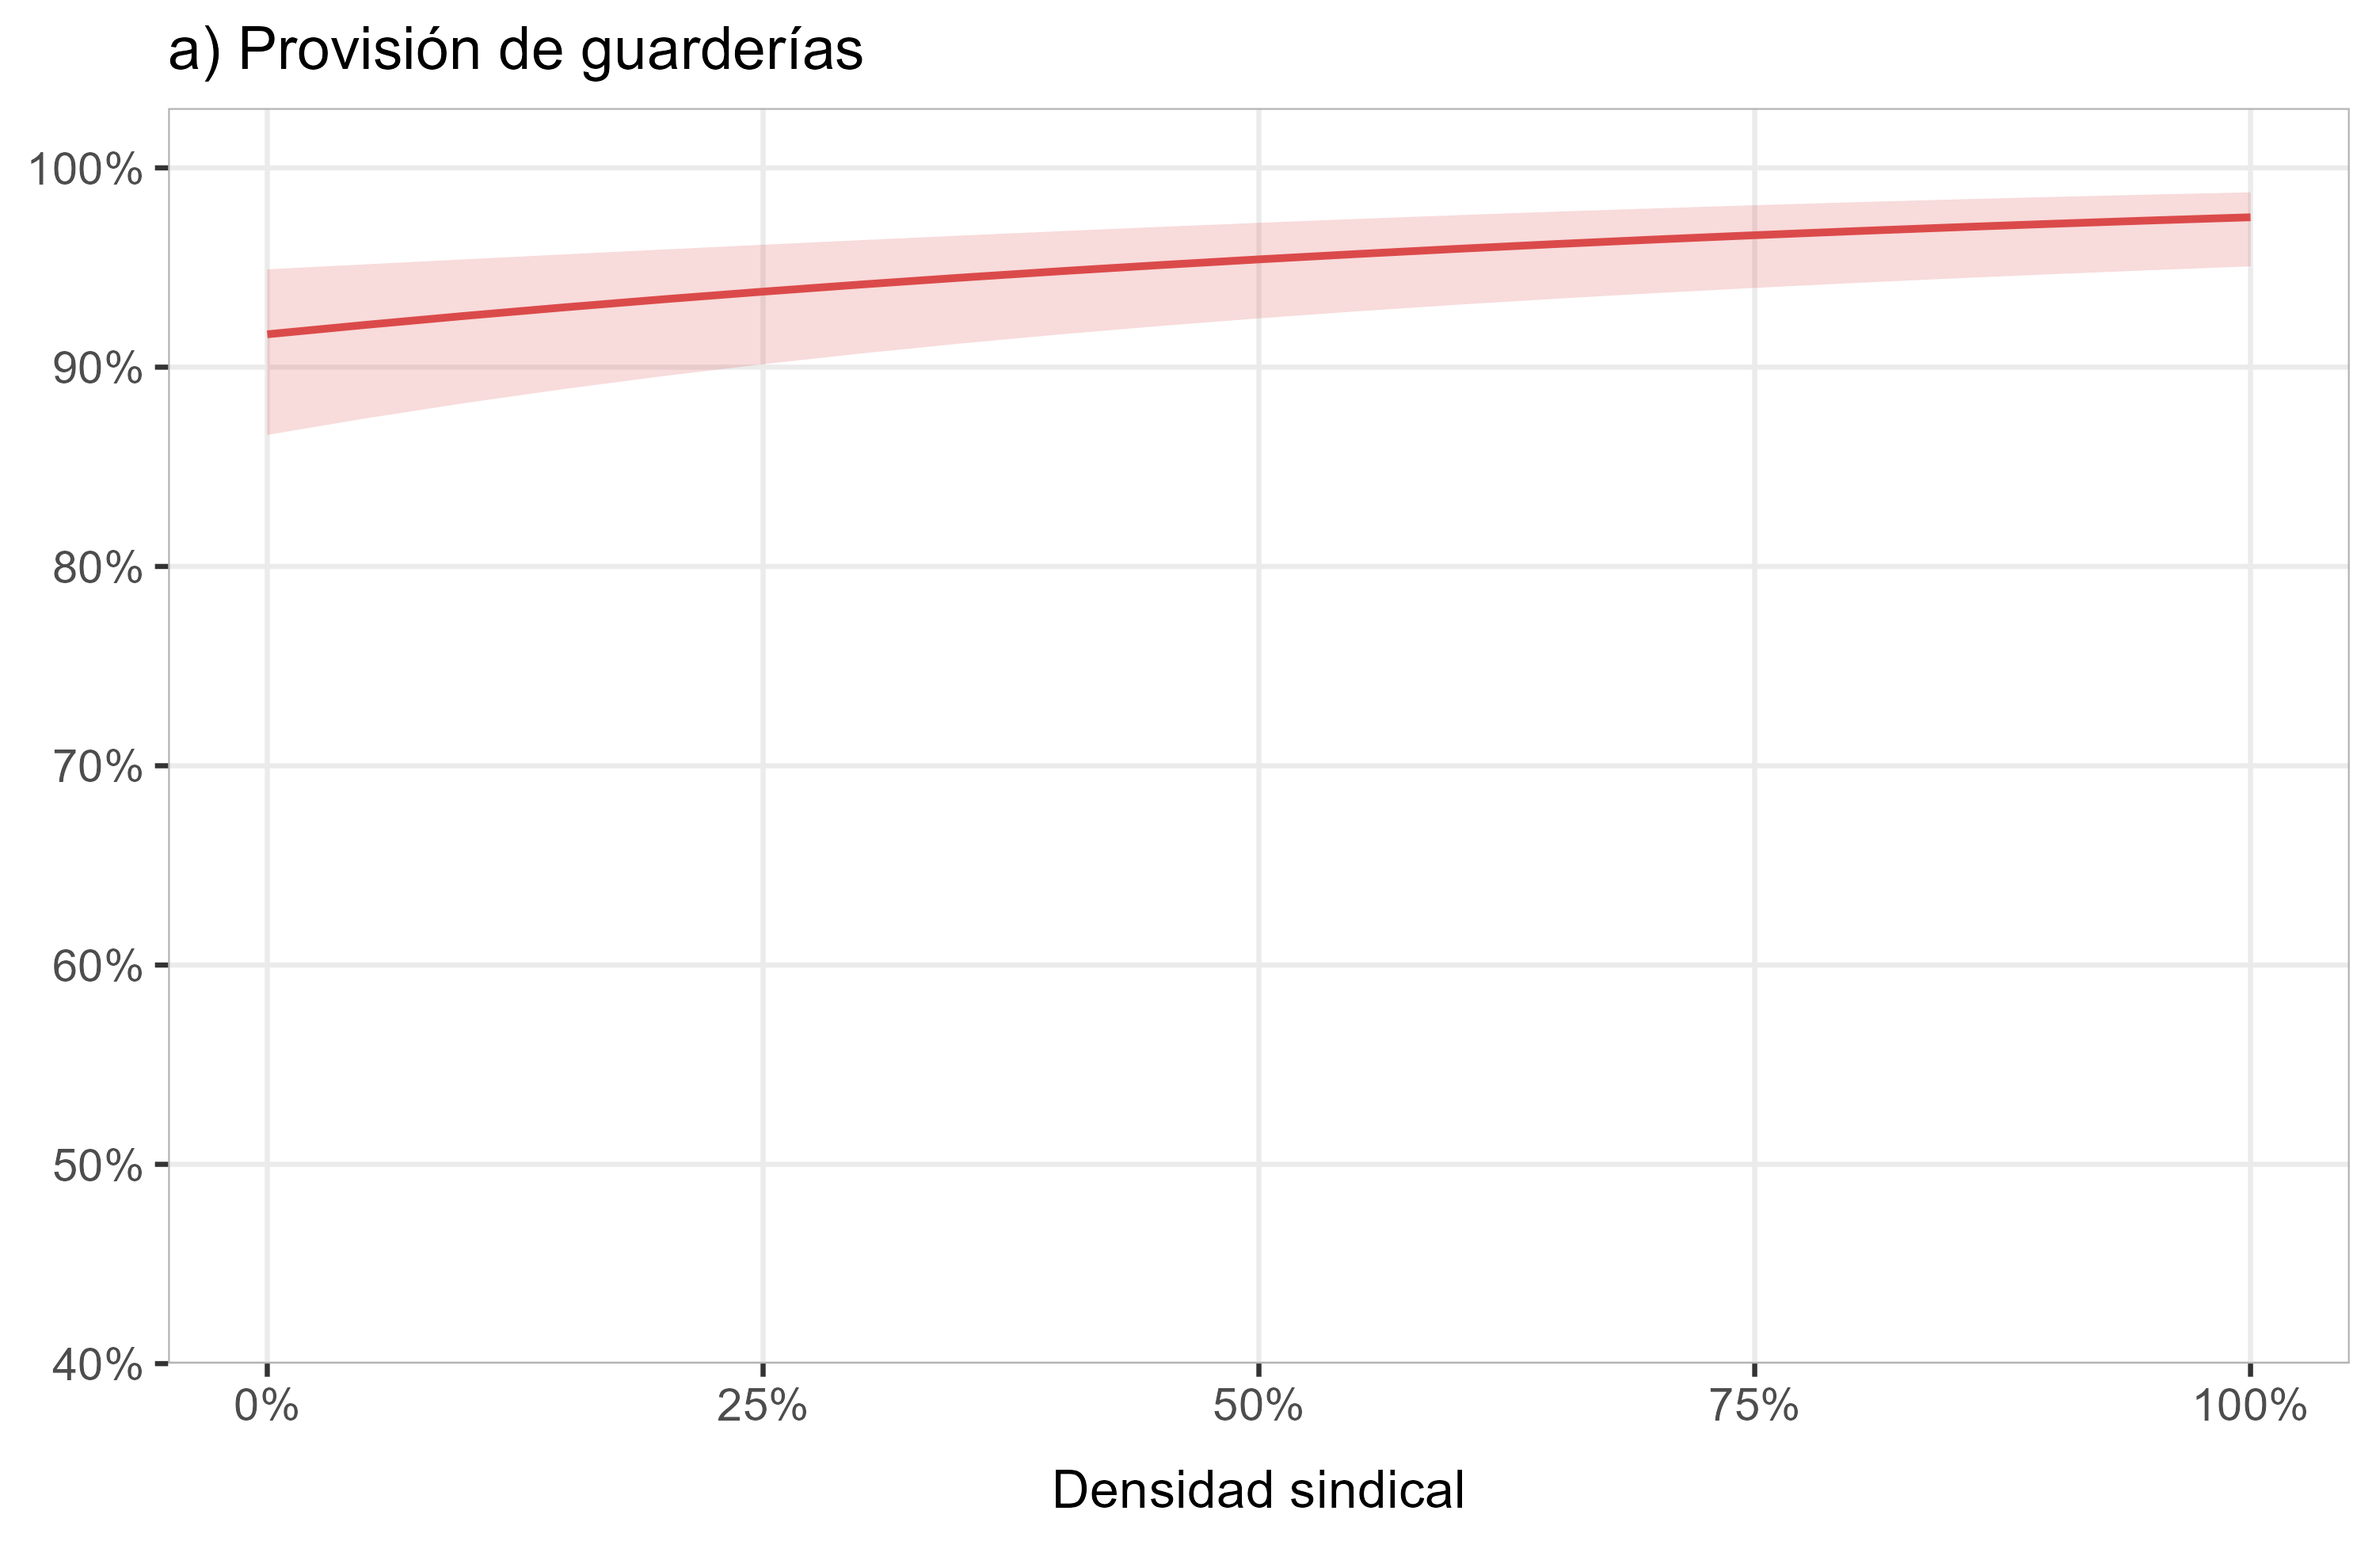
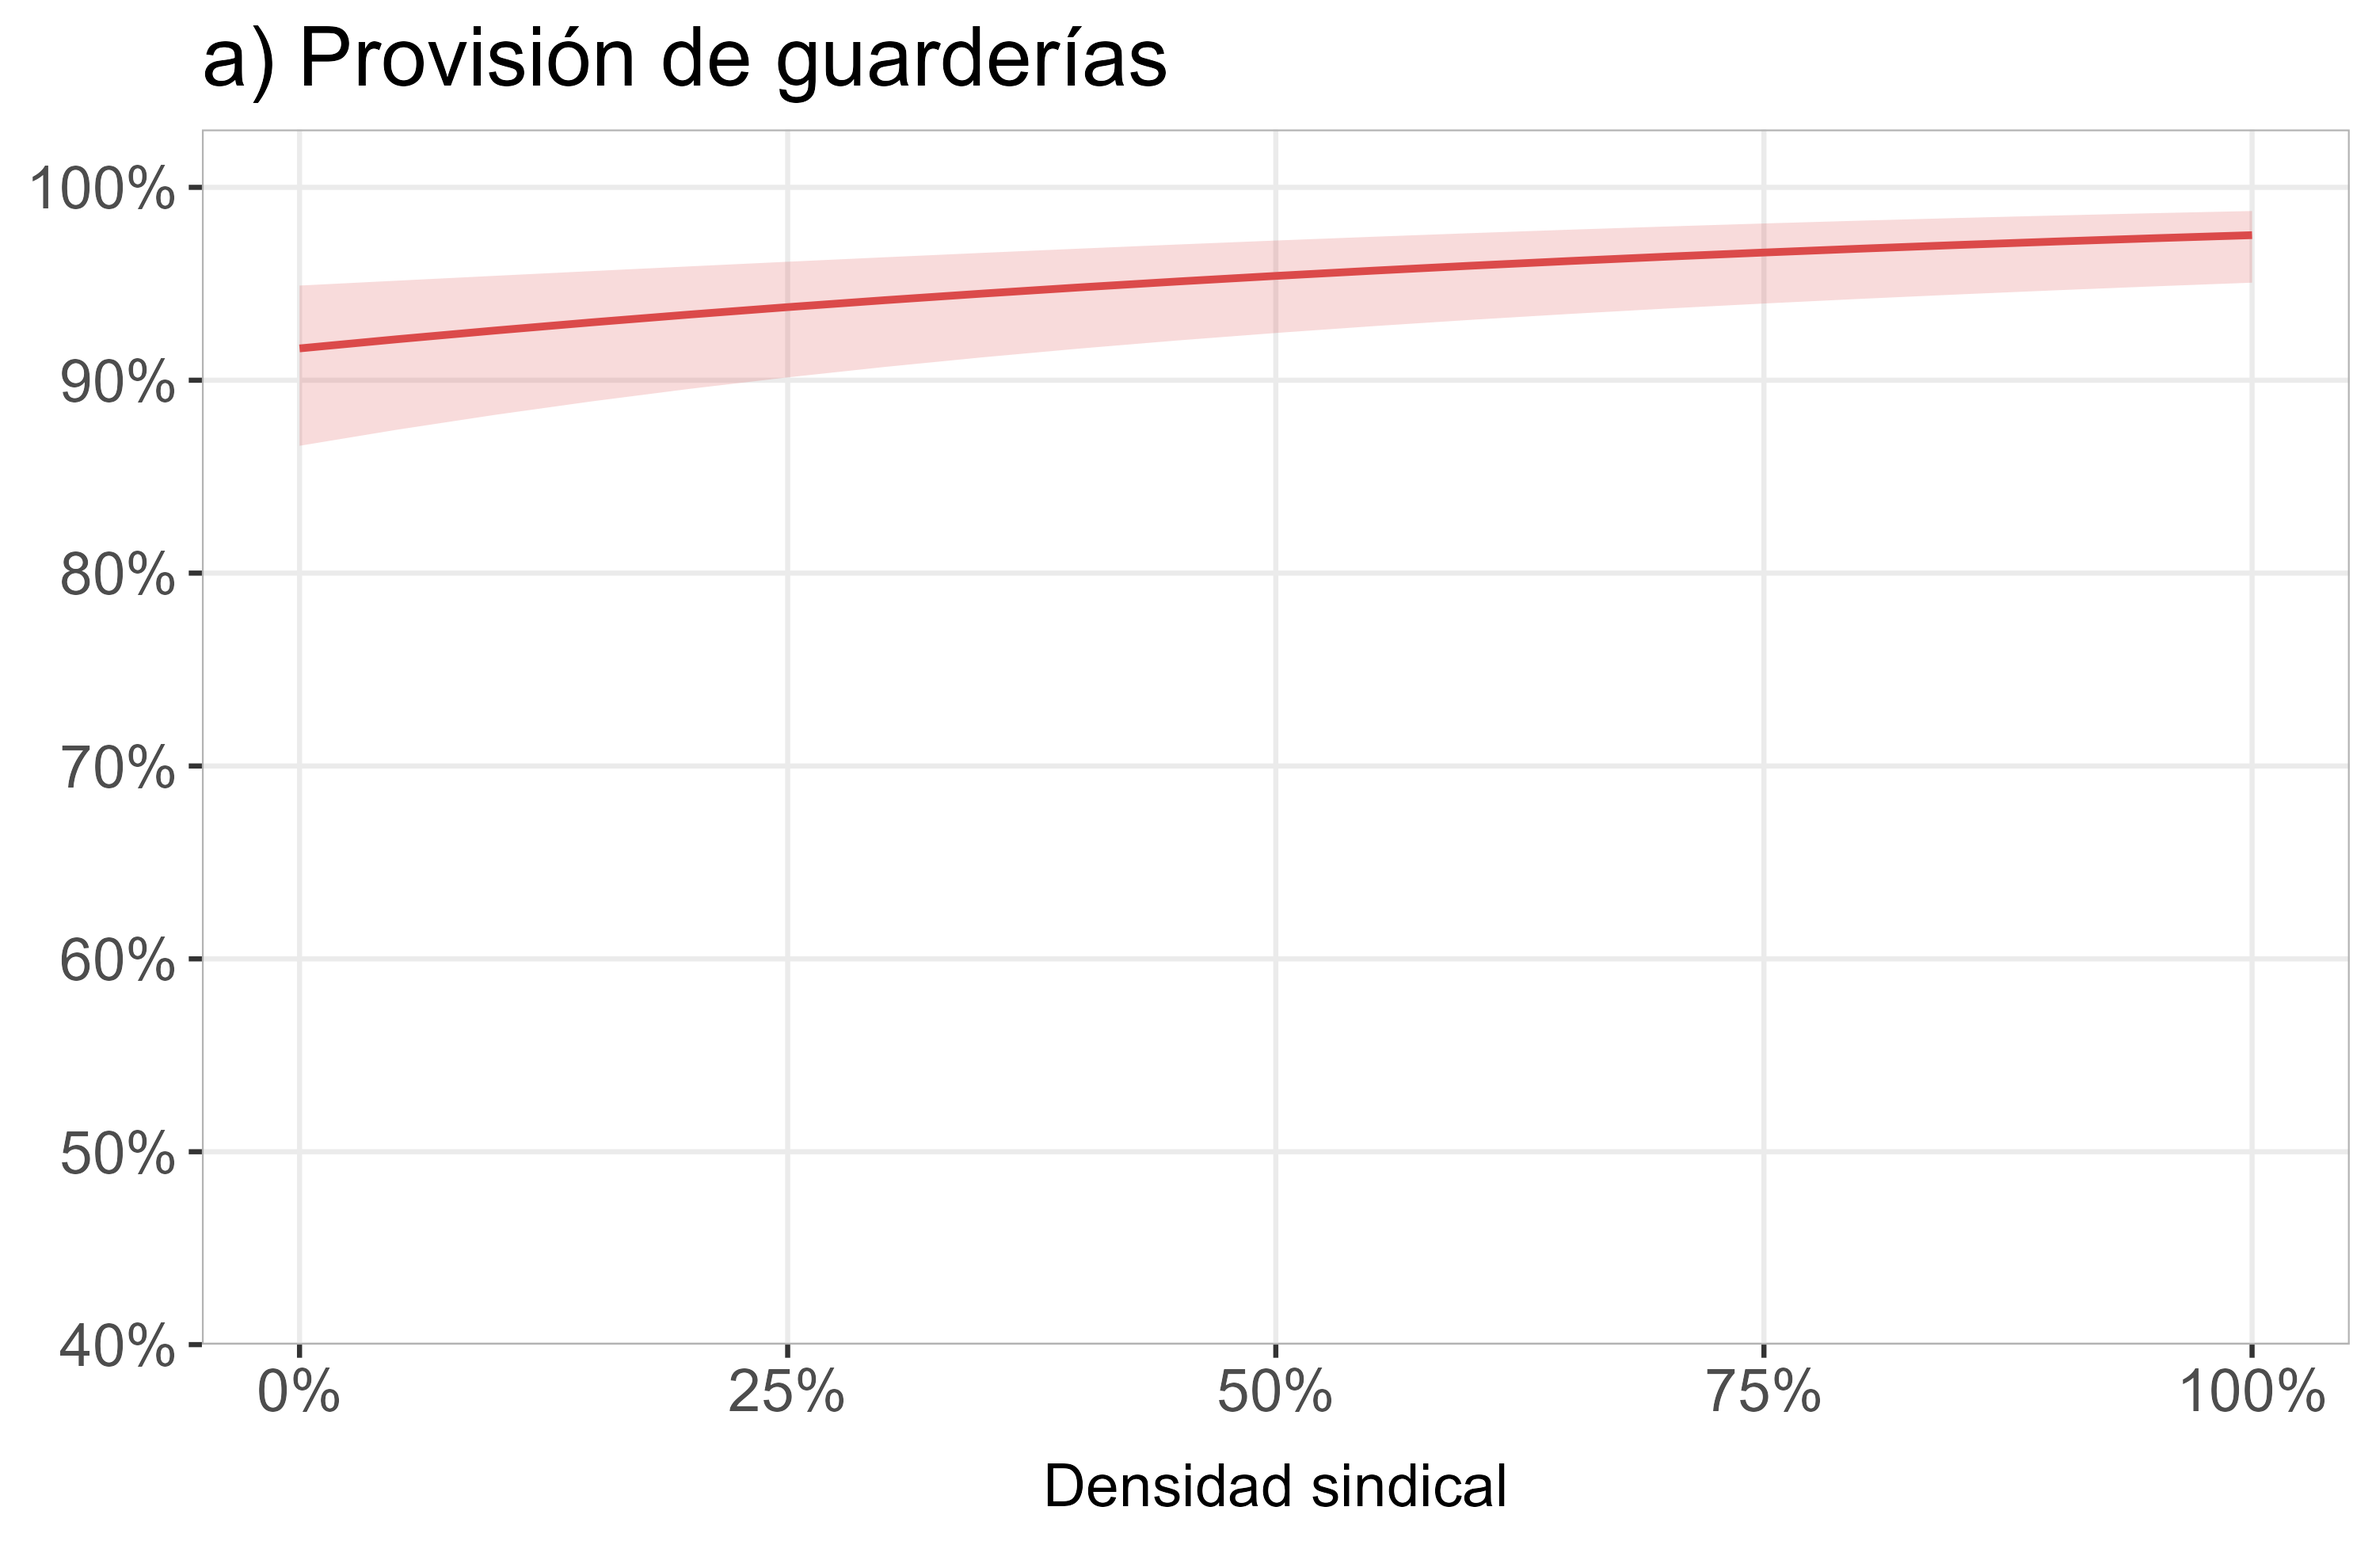
1

diff --git a/Output/tables/mediation_salacuna_legal.html b/Output/tables/mediation_salacuna_legal.html
@@ -1,0 +1,12 @@
+<!DOCTYPE html>
+<html lang="en">
+<head>
+<meta charset="utf-8"/>
+<style>body{background-color:white;}</style>
+
+
+</head>
+<body>
+<pre>[1] "\nCausal Mediation Analysis \n\nNonparametric Bootstrap Confidence Intervals with the Percentile Method\n\n                            Estimate 95% CI Lower\nACME (control)           0.000186501  0.000022063\nACME (treated)           0.000185381  0.000021958\nADE (control)            0.001646058  0.000611889\nADE (treated)            0.001644937  0.000611089\nTotal Effect             0.001831439  0.000801212\nProp. Mediated (control) 0.101833263  0.011074395\nProp. Mediated (treated) 0.101221529  0.010992584\nACME (average)           0.000185941  0.000022010\nADE (average)            0.001645498  0.000611489\nProp. Mediated (average) 0.101527396  0.011033489\n                         95% CI Upper\nACME (control)            0.000389072\nACME (treated)            0.000386761\nADE (control)             0.002911090\nADE (treated)             0.002910212\nTotal Effect              0.003082943\nProp. Mediated (control)  0.288133014\nProp. Mediated (treated)  0.287391985\nACME (average)            0.000387917\nADE (average)             0.002910651\nProp. Mediated (average)  0.287818076\n                                     p-value    \nACME (control)                        0.0224 *  \nACME (treated)                        0.0224 *  \nADE (control)                         0.0004 ***\nADE (treated)                         0.0004 ***\nTotal Effect             &lt;0.0000000000000002 ***\nProp. Mediated (control)              0.0224 *  \nProp. Mediated (treated)              0.0224 *  \nACME (average)                        0.0224 *  \nADE (average)                         0.0004 ***\nProp. Mediated (average)              0.0224 *  \n---\nSignif. codes:  \n0 ‘***’ 0.001 ‘**’ 0.01 ‘*’ 0.05 ‘.’ 0.1 ‘ ’ 1\n\nSample Size Used: 1416 \n\n\nSimulations: 5000 \n"</pre>
+</body>
+</html>
